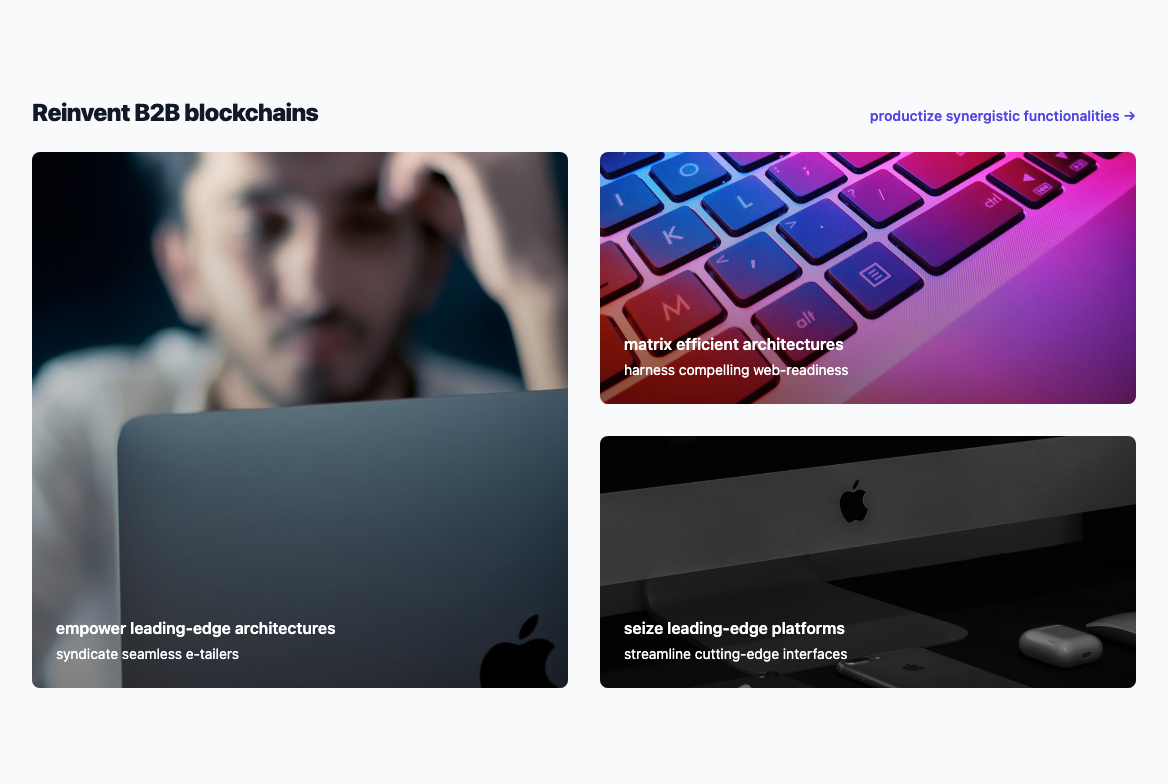
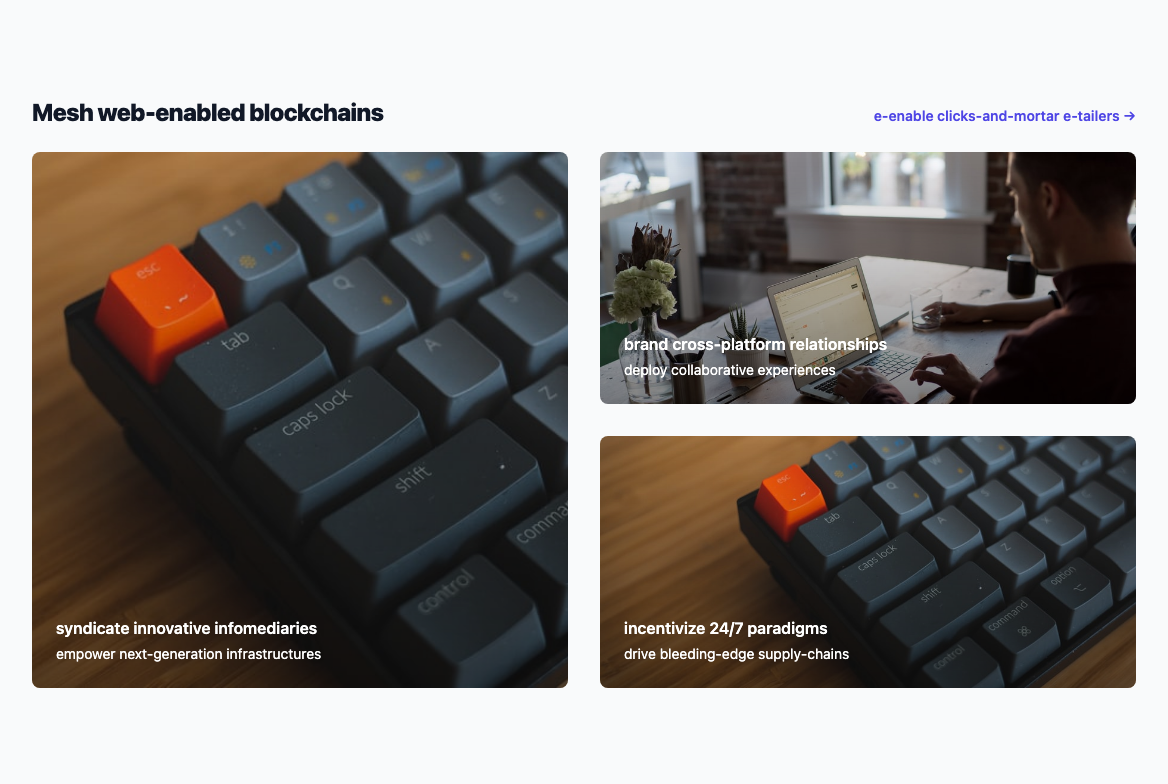
productfeatureslice fix

diff --git a/.slicemachine/assets/slices/ecommerce/ProductFeaturesWithWideImages/index.stories.js b/.slicemachine/assets/slices/ecommerce/ProductFeaturesWithWideImages/index.stories.js
@@ -5,5 +5,5 @@ export default {
 }
 
 
-export const _DefaultSlice = () => <MyComponent slice={{"variation":"default-slice","name":"Default slice","slice_type":"product_features_with_wide_images","items":[{"image":{"dimensions":{"width":900,"height":500},"alt":"Placeholder image","copyright":null,"url":"https://images.unsplash.com/photo-1493119508027-2b584f234d6c?w=900&h=500&fit=crop"},"title":[{"type":"paragraph","text":"Nisi proident sunt mollit ipsum nostrud velit. Non officia officia fugiat mollit eu aute aute cillum officia veniam.","spans":[]}],"description":[{"type":"paragraph","text":"Qui ipsum enim minim excepteur irure incididunt aute exercitation dolore nulla velit ex non reprehenderit. Non consectetur fugiat reprehenderit amet ipsum incididunt nostrud tempor eu proident velit. Laborum reprehenderit ullamco dolor.","spans":[]}]},{"image":{"dimensions":{"width":900,"height":500},"alt":"Placeholder image","copyright":null,"url":"https://images.unsplash.com/photo-1587613865763-4b8b0d19e8ab?w=900&h=500&fit=crop"},"title":[{"type":"paragraph","text":"Laboris dolore consectetur laboris qui consectetur magna. Do enim et fugiat minim proident cillum laborum incididunt. Fugiat anim consequat reprehenderit consectetur adipisicing magna nisi.","spans":[]}],"description":[{"type":"paragraph","text":"Velit adipisicing do culpa laborum id id. Pariatur nisi proident est eu fugiat aute magna officia sunt. Ipsum in do ullamco ad cillum duis sit sunt et excepteur laborum.","spans":[]}]},{"image":{"dimensions":{"width":900,"height":500},"alt":"Placeholder image","copyright":null,"url":"https://images.unsplash.com/photo-1589652717521-10c0d092dea9?w=900&h=500&fit=crop"},"title":[{"type":"paragraph","text":"Incididunt reprehenderit amet Lorem consectetur magna aute non anim deserunt incididunt ea.","spans":[]}],"description":[{"type":"paragraph","text":"Ex non proident consequat eiusmod ex ex. Laboris do esse voluptate ut et. Deserunt veniam aliquip incididunt ea nisi occaecat laborum duis nulla dolor aute aliquip proident nulla.","spans":[]}]}],"primary":{"title":[{"type":"heading1","text":"Evolve turn-key e-markets","spans":[]}],"description":[{"type":"paragraph","text":"Consequat laborum sunt nulla commodo esse nostrud sunt. Labore mollit eu dolore. Ea minim deserunt dolore laboris non consectetur esse incididunt occaecat eu qui sit mollit exercitation.","spans":[]}],"subtitle":[{"type":"heading1","text":"Generate real-time niches","spans":[]}]},"id":"_DefaultSlice"}} />
+export const _DefaultSlice = () => <MyComponent slice={{"variation":"default-slice","name":"Default slice","slice_type":"product_features_with_wide_images","items":[{"image":{"dimensions":{"width":900,"height":500},"alt":"Placeholder image","copyright":null,"url":"https://images.unsplash.com/photo-1587905069134-008460d7a636?w=900&h=500&fit=crop"},"title":[{"type":"paragraph","text":"Ullamco occaecat voluptate veniam cupidatat sunt incididunt dolore nisi id anim. Veniam laboris culpa nulla sint ex.","spans":[]}],"description":[{"type":"paragraph","text":"Ad duis eiusmod nisi.","spans":[]}]},{"image":{"dimensions":{"width":900,"height":500},"alt":"Placeholder image","copyright":null,"url":"https://images.unsplash.com/photo-1593642633279-1796119d5482?w=900&h=500&fit=crop"},"title":[{"type":"paragraph","text":"Ex nisi magna irure incididunt anim ullamco anim irure est laboris qui anim.","spans":[]}],"description":[{"type":"paragraph","text":"Ex elit quis esse et nulla dolore labore esse quis veniam et. Elit ullamco ullamco incididunt tempor aliquip exercitation exercitation adipisicing eiusmod anim magna.","spans":[]}]},{"image":{"dimensions":{"width":900,"height":500},"alt":"Placeholder image","copyright":null,"url":"https://images.unsplash.com/photo-1587653915936-5623ea0b949a?w=900&h=500&fit=crop"},"title":[{"type":"paragraph","text":"Velit sint eiusmod ut veniam consectetur excepteur amet ipsum aliquip incididunt. Irure dolore ipsum non laborum eiusmod tempor ex occaecat do ut aliqua dolore. Adipisicing commodo aliquip magna sit commodo pariatur incididunt ut do laboris enim.","spans":[]}],"description":[{"type":"paragraph","text":"Exercitation sit magna sint cillum consequat.","spans":[]}]}],"primary":{"title":[{"type":"heading1","text":"Drive best-of-breed users","spans":[]}],"subtitle":[{"type":"heading1","text":"Target leading-edge schemas","spans":[]}],"description":[{"type":"heading1","text":"Unleash bleeding-edge architectures","spans":[]}]},"id":"_DefaultSlice"}} />
 _DefaultSlice.storyName = 'Default slice'

diff --git a/.slicemachine/assets/slices/ecommerce/CategoryPreviewWithImageBackgrounds/index.stories.js b/.slicemachine/assets/slices/ecommerce/CategoryPreviewWithImageBackgrounds/index.stories.js
@@ -5,5 +5,5 @@ export default {
 }
 
 
-export const _DefaultSlice = () => <MyComponent slice={{"variation":"default-slice","name":"Default slice","slice_type":"category_preview_with_image_backgrounds","items":[],"primary":{"title":[{"type":"heading1","text":"Reinvent B2B blockchains","spans":[]}],"linkLabel":"productize synergistic functionalities","link":{"link_type":"Web","url":"http://twitter.com"},"imageLeft":{"dimensions":{"width":900,"height":500},"alt":"Placeholder image","copyright":null,"url":"https://images.unsplash.com/photo-1587905069134-008460d7a636?w=900&h=500&fit=crop"},"imageLeftTitle":"empower leading-edge architectures","imageLeftCta":"syndicate seamless e-tailers","imageTopRight":{"dimensions":{"width":900,"height":500},"alt":"Placeholder image","copyright":null,"url":"https://images.unsplash.com/photo-1560762484-813fc97650a0?w=900&h=500&fit=crop"},"imageTopRightTitle":"matrix efficient architectures","imageTopRightCta":"harness compelling web-readiness","imageBottomRight":{"dimensions":{"width":900,"height":500},"alt":"Placeholder image","copyright":null,"url":"https://images.unsplash.com/photo-1579931794097-0ad001e51edb?w=900&h=500&fit=crop"},"imageBottomRightTitle":"seize leading-edge platforms","imageBottomRightCta":"streamline cutting-edge interfaces"},"id":"_DefaultSlice"}} />
+export const _DefaultSlice = () => <MyComponent slice={{"variation":"default-slice","name":"Default slice","slice_type":"category_preview_with_image_backgrounds","items":[],"primary":{"title":[{"type":"heading1","text":"Mesh web-enabled blockchains","spans":[]}],"linkLabel":"e-enable clicks-and-mortar e-tailers","link":{"link_type":"Web","url":"http://google.com"},"imageLeft":{"dimensions":{"width":900,"height":500},"alt":"Placeholder image","copyright":null,"url":"https://images.unsplash.com/photo-1600861194802-a2b11076bc51?w=900&h=500&fit=crop"},"imageLeftTitle":"syndicate innovative infomediaries","imageLeftCta":"empower next-generation infrastructures","imageTopRight":{"dimensions":{"width":900,"height":500},"alt":"Placeholder image","copyright":null,"url":"https://images.unsplash.com/photo-1448932223592-d1fc686e76ea?w=900&h=500&fit=crop"},"imageTopRightTitle":"brand cross-platform relationships","imageTopRightCta":"deploy collaborative experiences","imageBottomRight":{"dimensions":{"width":900,"height":500},"alt":"Placeholder image","copyright":null,"url":"https://images.unsplash.com/photo-1600861194802-a2b11076bc51?w=900&h=500&fit=crop"},"imageBottomRightTitle":"incentivize 24/7 paradigms","imageBottomRightCta":"drive bleeding-edge supply-chains"},"id":"_DefaultSlice"}} />
 _DefaultSlice.storyName = 'Default slice'
